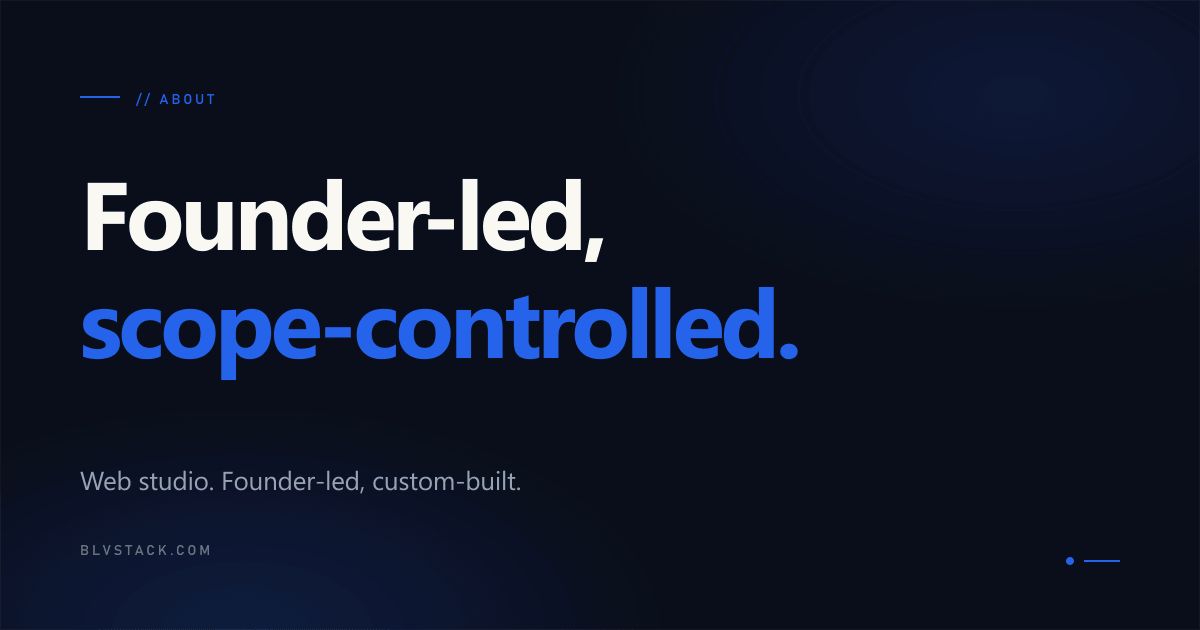
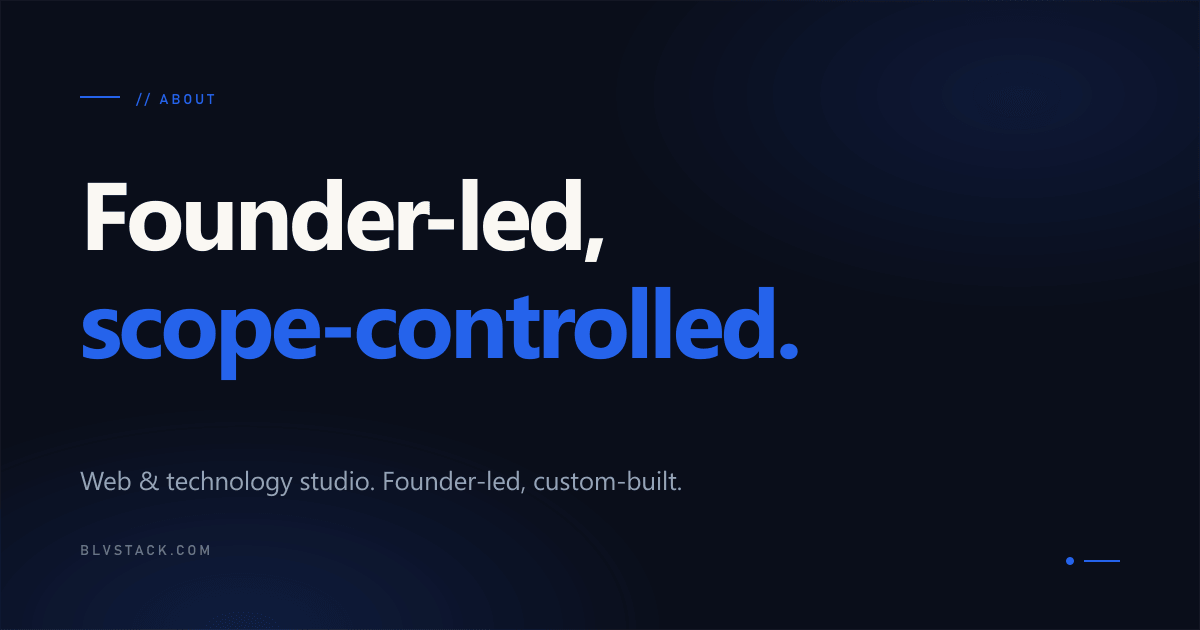
feat(site): Web & Technology Studio; IT & Infrastructure as the 5th service
- Studio type everywhere: hero label, titles, meta + JSON-LD, footer, About,
  Privacy, Terms, share images
- Services: L5 · IT & Infrastructure (hosting, security, backups + recovery,
  monitoring, Microsoft 365 + devices, office networking, cloud migration)
- Homepage: hero line on keeping your tech running; fifth What We Build card with
  an office → firewall → cloud demo; 7 new scrolling tags; the 3D stack gains L5
- Footer + Start form know the new service (?service=it)

Changed region(s): [[0.0925, 0.754, 0.5858, 0.7841], [0.1542, 0.9952, 0.2467, 1.0]]

diff --git a/src/components/home/Pillars.tsx b/src/components/home/Pillars.tsx
@@ -334,6 +334,73 @@ function SiteSim({ active }: { active: boolean }) {
 }
 
 // ---------- Stack glyph: three thin horizontal lines, active line highlighted ----------
+// ---------- Infra sim: office devices → firewall → cloud, with backups ----------
+function InfraSim({ active }: { active: boolean }) {
+  const [pulse, setPulse] = useState(0);
+  useEffect(() => {
+    if (!active) return;
+    const id = setInterval(() => setPulse((p) => (p + 1) % 100), 50);
+    return () => clearInterval(id);
+  }, [active]);
+
+  const nodes = [
+    { x: 40,  y: 72, label: 'OFFICE'   },
+    { x: 130, y: 72, label: 'FIREWALL' },
+    { x: 222, y: 40, label: 'CLOUD'    },
+    { x: 222, y: 104, label: 'BACKUP'  },
+  ];
+  const links = [
+    { from: 0, to: 1 },
+    { from: 1, to: 2 },
+    { from: 2, to: 3 },
+  ];
+  const devices = [18, 40, 62]; // laptops/phones feeding the office network
+  const backedUp = pulse > 70; // the backup check lights once per cycle
+
+  return (
+    <svg viewBox="0 0 280 130" className="w-full h-full" aria-hidden="true">
+      {devices.map((x) => (
+        <g key={x}>
+          <line x1={x} y1="30" x2={x} y2="58" stroke="#2563EB" strokeWidth="0.6" opacity="0.35" />
+          <rect x={x - 6} y="18" width="12" height="9" stroke="#94A3B8" strokeWidth="0.8" fill="none" />
+        </g>
+      ))}
+      {links.map((l, i) => {
+        const a = nodes[l.from];
+        const b = nodes[l.to];
+        const progress = ((pulse + i * 25) % 100) / 100;
+        return (
+          <g key={i}>
+            <line x1={a.x} y1={a.y} x2={b.x} y2={b.y} stroke="#2563EB" strokeWidth="0.6" opacity="0.4" />
+            <circle cx={a.x + (b.x - a.x) * progress} cy={a.y + (b.y - a.y) * progress} r="2" fill="#2563EB">
+              <animate attributeName="opacity" values="0.3;1;0.3" dur="0.8s" repeatCount="indefinite" />
+            </circle>
+          </g>
+        );
+      })}
+      {nodes.map((n, i) => (
+        <g key={i}>
+          <rect
+            x={n.x - 32}
+            y={n.y - 13}
+            width="64"
+            height="26"
+            stroke="#2563EB"
+            strokeWidth="0.9"
+            fill={i === 1 ? 'rgba(37,99,235,0.10)' : 'none'}
+          />
+          <text x={n.x} y={n.y + 4.5} fill={i === 1 ? '#FAF8F3' : '#94A3B8'} fontSize="12" fontFamily="monospace" textAnchor="middle" letterSpacing="0.6" fontWeight="500">
+            {n.label}
+          </text>
+        </g>
+      ))}
+      {/* Backup check */}
+      <circle cx="266" cy="104" r="5" fill={backedUp ? '#2563EB' : 'none'} stroke="#2563EB" strokeWidth="0.9" style={{ transition: 'fill 0.3s' }} />
+      {backedUp && <path d="M263.5 104 L265.5 106 L268.8 102.2" stroke="#FAF8F3" strokeWidth="1.1" fill="none" />}
+    </svg>
+  );
+}
+
 // ---------- Care sim: a live status board for a site under monthly care ----------
 function CareSim({ active }: { active: boolean }) {
   const [tick, setTick] = useState(0);
@@ -371,7 +438,7 @@ function StackGlyph({
   visible,
   baseDelay,
 }: {
-  activeIndex: 0 | 1 | 2 | 3;
+  activeIndex: 0 | 1 | 2 | 3 | 4;
   visible: boolean;
   baseDelay: number;
 }) {
@@ -381,7 +448,7 @@ function StackGlyph({
       aria-hidden="true"
       style={{ width: 14 }}
     >
-      {[0, 1, 2, 3].map((i) => {
+      {[0, 1, 2, 3, 4].map((i) => {
         const isActive = i === activeIndex;
         // Per-line entrance stagger: L1 first, then L2, then L3
         const lineDelay = baseDelay + i * 90;
@@ -413,7 +480,7 @@ function LayerLabel({
 }: {
   code: string;
   tag: string;
-  activeIndex: 0 | 1 | 2 | 3;
+  activeIndex: 0 | 1 | 2 | 3 | 4;
   visible: boolean;
   baseDelay: number;
 }) {
@@ -431,7 +498,7 @@ function LayerLabel({
 type Pillar = {
   code: string;
   tag: string;
-  layerIndex: 0 | 1 | 2 | 3;
+  layerIndex: 0 | 1 | 2 | 3 | 4;
   label: string;
   headline: string;
   body: string;
@@ -609,6 +676,15 @@ const PILLARS: Pillar[] = [
     body: 'Chat, voice, and intake agents that work live conversations, plus automations that run the repetitive admin. Built around your business and owned by you.',
     Sim: FlowSim,
   },
+  {
+    code: 'L5',
+    tag: 'TECH',
+    layerIndex: 4,
+    label: 'IT & Infrastructure',
+    headline: 'Your tech, kept running.',
+    body: 'Hosting, security, backups, and monitoring, plus Microsoft 365, devices, and office Wi-Fi. Set up properly, then looked after.',
+    Sim: InfraSim,
+  },
 ];
 
 export default function Pillars() {
@@ -667,7 +743,7 @@ export default function Pillars() {
             transitionDelay: '240ms',
           }}
         >
-          Every <Brand /> project starts with a custom site. Underneath, it runs the busywork (leads, booking, follow-up, AI agents) so it keeps working after launch.
+          Every <Brand /> project starts with a custom site. Underneath, it runs the busywork (leads, booking, follow-up, AI agents), and we keep the tech behind your business running too.
         </p>
       </div>
 
@@ -681,9 +757,10 @@ export default function Pillars() {
           <PillarCard pillar={PILLARS[2]} layout="wide-split" visible={visible} delay={300} />
         </div>
 
-        {/* Pillar 04 — full width under the three */}
-        <div className="md:col-span-12">
-          <PillarCard pillar={PILLARS[3]} layout="wide-split" visible={visible} delay={450} />
+        {/* Pillars 04 + 05 — side by side under the three (stacked below lg) */}
+        <div className="md:col-span-12 grid grid-cols-1 lg:grid-cols-2 gap-px">
+          <PillarCard pillar={PILLARS[3]} layout="wide-text" visible={visible} delay={450} />
+          <PillarCard pillar={PILLARS[4]} layout="wide-text" visible={visible} delay={600} />
         </div>
       </div>
     </section>

diff --git a/src/components/three/StackStage.tsx b/src/components/three/StackStage.tsx
@@ -25,7 +25,7 @@ type Params = {
   ry: number;               // resting yaw when facing the camera
   spin: number;             // idle rotation speed
   build: number;            // 0 blueprint → 1 built and launched
-  labels: number;           // SITES / LEADS / CARE / AI label opacity
+  labels: number;           // SITES / LEADS / CARE / AI / TECH label opacity
   lift: number;             // px upward
   alpha: number;            // overall visibility
 };
@@ -64,7 +64,7 @@ const PALETTE: Record<Tone, { plate: string; edge: string; emissive: string; glo
 
 // Plate geometry (world units at scale 1)
 const PW = 2.4, PD = 1.6, PT = 0.12;
-const LAYERS = ['SITES', 'LEADS', 'CARE', 'AI'] as const;
+const LAYERS = ['SITES', 'LEADS', 'CARE', 'AI', 'TECH'] as const;
 const MID = (LAYERS.length - 1) / 2; // plates sit centered around the stack's middle
 // A page's worth of modules on each plate: nav bar, hero, side panel, three cards
 const BLOCKS = [

diff --git a/src/lib/services.ts b/src/lib/services.ts
@@ -1,4 +1,4 @@
-// The four services, keyed by the slug used in /services#<slug> and /start?service=<slug>.
+// The five services, keyed by the slug used in /services#<slug> and /start?service=<slug>.
 // Browser-safe: the Start form imports it.
 
 export const SERVICE_LABELS: Record<string, string> = {
@@ -6,6 +6,7 @@ export const SERVICE_LABELS: Record<string, string> = {
   leads: 'Lead Capture & Booking',
   care: 'Follow-Up & Monthly Care',
   ai: 'AI & Automation',
+  it: 'IT & Infrastructure',
 };
 
 // Links from before the 2026-09 reskin still carry the old slugs.

diff --git a/src/components/home/Marquee.tsx b/src/components/home/Marquee.tsx
@@ -9,7 +9,14 @@ const ITEMS = [
   'AI Agents',
   'Workflow Automation',
   'Client Portals',
-  'Hosting & Care',
+  'Monthly Care',
+  'Cloud Hosting',
+  'Security & VPN',
+  'Backups & Recovery',
+  'Uptime Monitoring',
+  'Microsoft 365 Setup',
+  'Office Networks',
+  'Cloud Migration',
 ];
 
 // Three-tone hierarchy that cycles across items (on the electric band)
